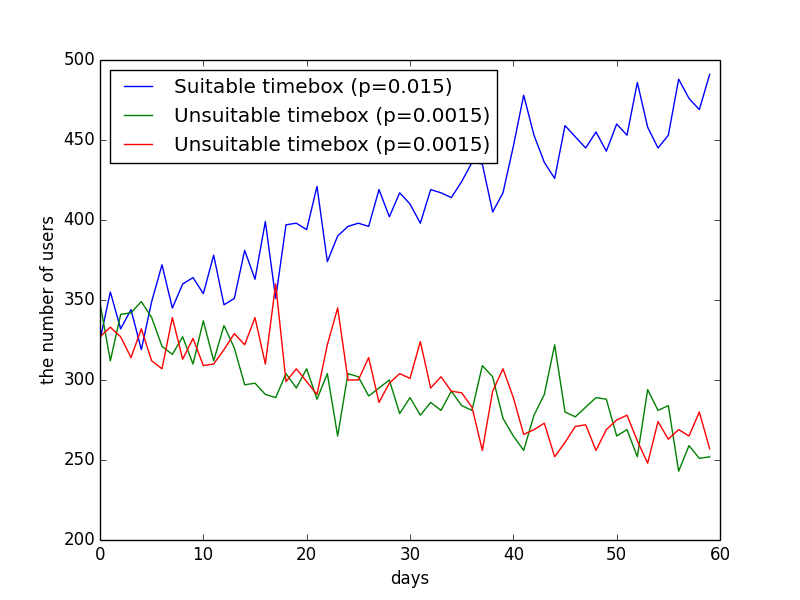
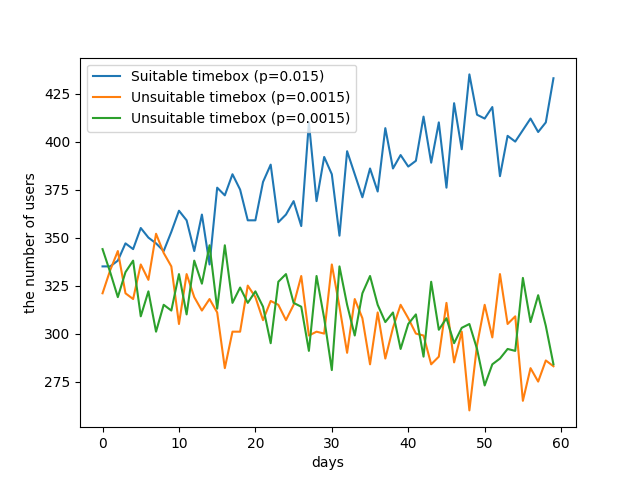
markov

diff --git a/epsilon_greedy.py b/epsilon_greedy.py
@@ -5,7 +5,7 @@ import matplotlib.pyplot as plt
 class User(object):
 
     def __init__(self):
-        self.__open_probability = np.array([0.015, 0.0015, 0.0015])
+        self.__open_probability = np.array([0.010, 0.0015, 0.0015])
 
     def is_open(self, send_timing):
         return np.random.binomial(1, self.__open_probability[send_timing], 1)[0]
@@ -72,5 +72,58 @@ def main():
     plt.savefig('send_timing.png')
 
 
+class Mailer2(object):
+
+    def __init__(self):
+        self.previous_distribution = np.random.randint(3)
+        self.is_opened = False
+
+    def decide_send_timing(self):
+        if self.is_opened:
+            return self.previous_distribution
+        else:
+            candidate = [0, 1, 2]
+            candidate.remove(self.previous_distribution)
+            return np.random.choice(candidate)
+
+    def recode_result(self, sent_timing, is_opened):
+        self.previous_distribution = sent_timing
+        self.is_opened += is_opened
+
+
+def main2():
+    n_users = 1000
+    send_days = 60
+
+    users = [User() for _ in range(n_users)]
+    mailers = [Mailer2() for _ in range(n_users)]
+
+    send_users_by_time = []
+    for i in range(send_days):
+        send_users = np.asarray([0, 0, 0])
+        for j in range(n_users):
+            user = users[j]
+            mailer = mailers[j]
+            send_timing = mailer.decide_send_timing()
+            send_users[send_timing] += 1
+            is_open = user.is_open(send_timing)
+            mailer.recode_result(send_timing, is_open)
+        send_users_by_time.append(send_users)
+        print(send_users)
+
+    data = np.asarray(send_users_by_time)
+    p = []
+    for i in range(3):
+        height = np.array(data[:, i])
+        left = np.arange(len(height))
+        p.append(plt.plot(left, height))
+
+    plt.legend((p[0][0], p[1][0], p[2][0]), ("Suitable timebox (p=0.015)", "Unsuitable timebox (p=0.0015)", "Unsuitable timebox (p=0.0015)"), loc=2)
+    plt.xlabel("days")
+    plt.ylabel("the number of users")
+    plt.savefig('send_timing_1state_markov.png')
+
+
 if __name__ == '__main__':
     main()
+    main2()
